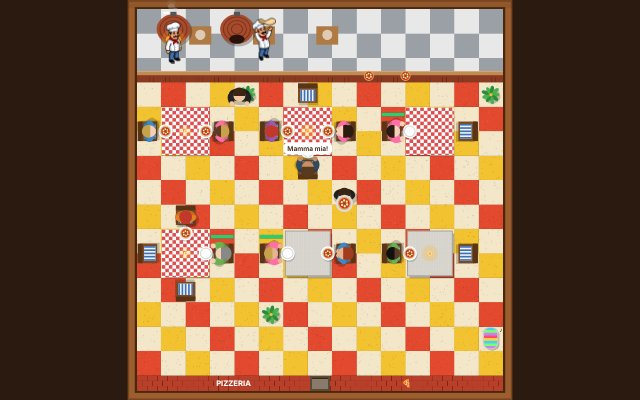
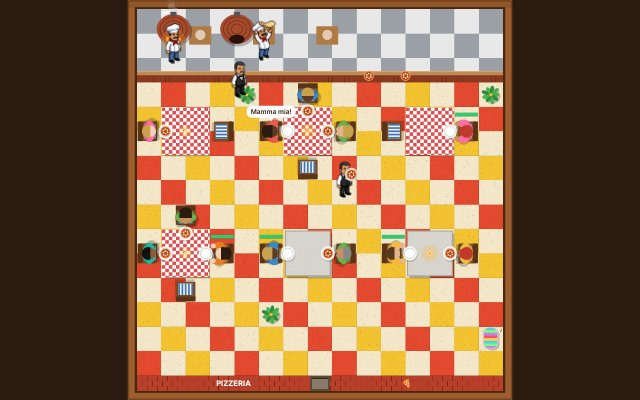
Pizzabaas: kok met rugaanzicht en een eigen ober (Gemini-ontwerpen)
Claude-Session: https://claude.ai/code/session_016yiCbYbiJxj3wDkRW1beUn

diff --git a/pizzabaas.html b/pizzabaas.html
@@ -274,13 +274,14 @@ function stap(dt) {
   for (const o of ovens) stapOven(o, dt);
   // obers brengen de pizza's rond
   for (const ob of obers) {
+    if (ob.serveer > 0) { ob.serveer -= dt; continue; } // even de stolp optillen: "Prego!"
     if (!ob.taak && klaar.length) { ob.taak = klaar.shift(); ob.fase = 'halen'; ob.taak.m.onderweg = true; }
     if (!ob.taak) { beweeg(ob, ob.thuis, 3.4, dt); continue; }
     const m = ob.taak.m;
     if (!mensen.includes(m) || m.st != 'wacht') { ob.taak = null; ob.draagt = null; continue; }
     if (ob.fase == 'halen') { if (beweeg(ob, [ob.taak.plek[0], KEUKEN + 0.4], 3.4, dt)) { ob.fase = 'brengen'; ob.draagt = true; } }
     else if (beweeg(ob, [m.x + (m.x < midden(m.tafel)[0] ? -0.6 : 0.6) * (m.tafel.t == 'tafel2' ? 1 : 0), m.y + (m.tafel.t == 'tafel4' ? (m.y < midden(m.tafel)[1] ? -0.6 : 0.6) : 0.7)], 3.4, dt)) {
-      m.st = 'eet'; m.wacht = m.t; tel.wacht += m.t; tel.wachtN++; m.t = 0; m.onderweg = false; ob.taak = null; ob.draagt = null;
+      m.st = 'eet'; m.wacht = m.t; tel.wacht += m.t; tel.wachtN++; m.t = 0; m.onderweg = false; ob.taak = null; ob.draagt = null; ob.serveer = 0.6;
       if (Math.random() < 0.35) zeg(m, R(ZEG.eten));
     }
   }
@@ -365,19 +366,39 @@ const MENS = 1.4; // poppetjes zijn ongeveer een tegel groot, net als in het oud
 const naarScherm = (x, y) => [ox + x * T * schaal, oy + y * T * schaal];
 function ober(o) {
   const [x, y] = naarScherm(o.x, o.y);
+  if (OBER.complete && OBER.naturalWidth) {
+    g.save(); g.translate(x, y); g.scale(schaal, schaal);
+    const h = figuur(OBER, o, o.serveer > 0, false);
+    if (o.draagt) { g.fillStyle = '#ddd'; g.beginPath(); g.arc(14, -h * 0.45, 13, 0, 7); g.fill(); pizza(14, -h * 0.45, 10); }
+    g.restore(); return;
+  }
   g.save(); g.translate(x, y); g.scale(schaal * MENS, schaal * MENS);
   poppetje({ kleur: '#222', huid: '#f0c7a2', haar: '#3b2414', loopT: o.loopT, kijk: o.kijk }, { draagt: o.draagt, armen: o.draagt ? 0.8 : 0 });
   g.restore();
 }
-// de kok is een eigen ontwerp (Gemini, uitgeknipt): pizza/kok.png = 6 plaatjes van 100 x 192 naast elkaar:
-// 0 staan, 1-2 lopen naar voren, 3 naar links, 4 naar rechts, 5 deeg opgooien
+// kok en ober zijn eigen ontwerpen (Gemini, uitgeknipt): pizza/kok.png en pizza/ober.png = 13 plaatjes van 113 x 192 naast elkaar:
+// 0-1 staan, 2-3 lopen (naar links, gespiegeld = naar rechts), 4 schuin rechts, 5 iets bijzonders (deeg opgooien / stolp optillen),
+// 6 staan op de rug, 7-12 lopen naar achteren
 const KOK = new Image(); KOK.src = 'pizza/kok.png';
+const OBER = new Image(); OBER.src = 'pizza/ober.png';
+const SW = 113, SH = 192;
+function figuur(img, p, bijzonder, rug) {
+  let f = rug ? 6 : 0, spiegel = false;
+  if (bijzonder) f = 5;
+  else if (p.loopT > 0) {
+    const c = Math.cos(p.kijk ?? 0), s = Math.sin(p.kijk ?? 0), stap = Math.floor(p.loopT * 7);
+    if (Math.abs(c) > Math.abs(s)) { f = 2 + stap % 2; spiegel = c > 0; }
+    else if (s < 0) f = 7 + stap % 6;
+    else f = 2 + stap % 2;
+  }
+  const h = 1.85 * T, w = h * SW / SH;
+  g.save(); if (spiegel) g.scale(-1, 1);
+  g.drawImage(img, f * SW, 0, SW, SH, -w / 2, -h + 6, w, h);
+  g.restore();
+  return h;
+}
 function kokPlaatje(k, nu) {
-  let f = 0;
-  if (k.gooi > 0) f = 5;
-  else if (k.loopT > 0) { const c = Math.cos(k.kijk ?? 0), s = Math.sin(k.kijk ?? 0); f = Math.abs(c) > Math.abs(s) ? (c < 0 ? 3 : 4) : (Math.floor(k.loopT * 6) % 2 ? 1 : 2); }
-  const h = 1.9 * T, w = h * 100 / 192;
-  g.drawImage(KOK, f * 100, 0, 100, 192, -w / 2, -h + 6, w, h);
+  const h = figuur(KOK, k, k.gooi > 0, !k.loopT && (k.y < 1.9));
   if (k.draagt) { g.fillStyle = '#ddd'; g.beginPath(); g.arc(0, -h * 0.42, 13, 0, 7); g.fill(); pizza(0, -h * 0.42, 10); }
 }
 function kok(k, nu) {

diff --git a/CLAUDE.md b/CLAUDE.md
@@ -142,7 +142,7 @@ bedenk dat de site openbaar is.
   (`RAND`), stoelen met gestreepte zitting (`stoel`), grijze tafels, borden (`bord`), poppetjes van bovenaf met kijkrichting (`poppetje`, `kijk`).
   Paneel rechts (liggend) of onder (staand): zwart schermpje `#lcd` (`balk`) en een 3x3 knoppenraster `#raster` (`tekenKnoppen`).
   Per oven een kok (`maakOven`, `stapOven`): deeg opgooien aan de werkbank (`BANK`, `DEEG`), inschuiven, bakken, naar de toonbank brengen
-  (`TOONBANK`), daar haalt een ober hem op. De kok is een eigen Gemini-ontwerp: `pizza/kok.png` (6 plaatjes van 100x192: staan, 2x lopen naar voren, links, rechts, deeg opgooien; uitgeknipt uit `pizza/kok-gemini.jpg` met groen als achtergrond, `KOK`, `kokPlaatje`). Kenney food-kit heeft plaatjes van ingrediënten (`Previews/*.png`, 64x64) voor stap 2. Opslag per speler in `pizzabaas:<naam>`. `#tegel` = plaatje.
+  (`TOONBANK`), daar haalt een ober hem op. Kok en ober zijn eigen Gemini-ontwerpen: `pizza/kok.png` en `pizza/ober.png` (13 plaatjes van 113x192: 0-1 staan, 2-3 lopen naar links (gespiegeld = rechts), 4 schuin, 5 deeg opgooien / stolp optillen bij het opdienen (`serveer`), 6 op de rug, 7-12 lopen naar achteren; uitgeknipt uit `pizza/*-gemini.jpg` met groen als achtergrond, de rugrij geschaald naar dezelfde lengte; `figuur`). Kenney food-kit heeft plaatjes van ingrediënten (`Previews/*.png`, 64x64) voor stap 2. Opslag per speler in `pizzabaas:<naam>`. `#tegel` = plaatje.
   Plan: 2 pizza's verzinnen met smaken per buurt, 3 dubieuze klanten en pakketjes-ritjes (geen echte wapens of drugs), 4 sabotage door
   Luigi van de overkant, 5 meer buurten en filialen.
 - Songfestival-hits (`songfestival/`, test, nog niet op de startpagina): zelfgeprinte kaartjes in Hitster-stijl (die naam niet op de site
